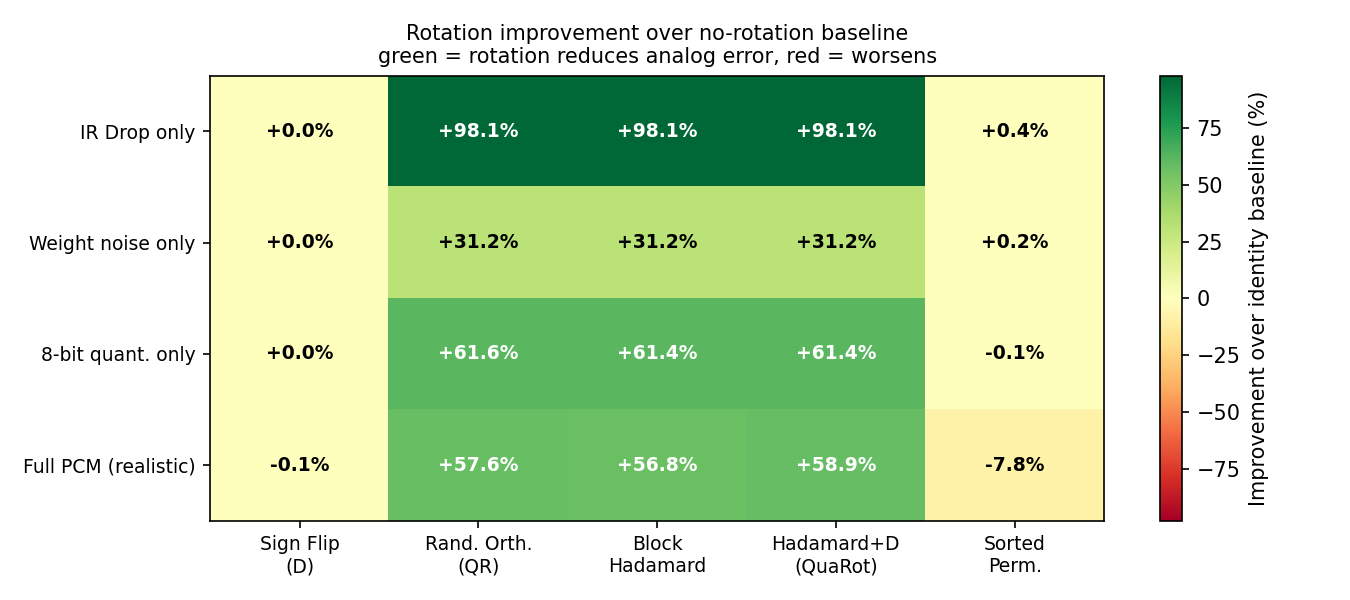
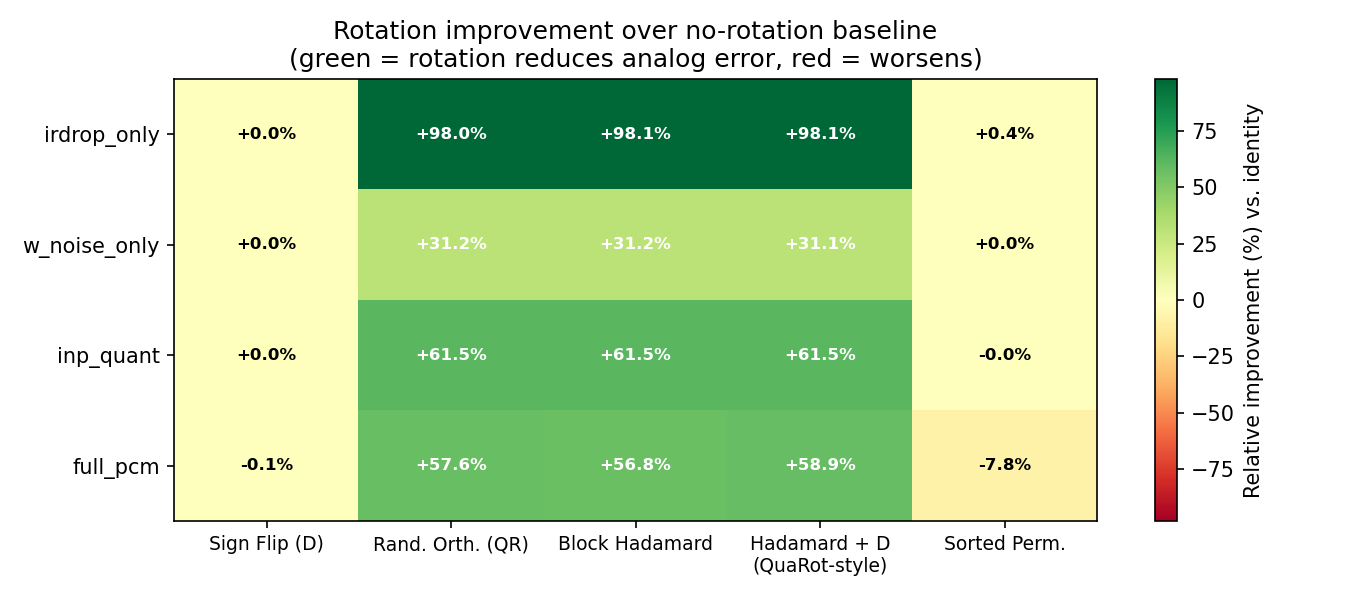
added wandb, updated readme, updated docker script

diff --git a/1layertests/explore_rotations.py b/1layertests/explore_rotations.py
@@ -44,6 +44,8 @@ Metrics (averaged over N_TRIALS noise realisations)
 """
 
 import os
+import sys
+import datetime
 import warnings
 import numpy as np
 import torch
@@ -52,6 +54,10 @@ matplotlib.use("Agg")
 import matplotlib.pyplot as plt
 from scipy.linalg import hadamard
 from transformers import GPT2Model, GPT2Tokenizer
+
+sys.path.insert(0, os.path.join(os.path.dirname(__file__), "..", "src"))
+import wandb
+from wandb_config import WANDB_ENTITY, WANDB_PROJECT, WANDB_MODE
 
 from aihwkit.nn import AnalogLinear
 from aihwkit.simulator.configs import InferenceRPUConfig, TorchInferenceRPUConfigIRDropT
@@ -395,6 +401,16 @@ def run_trials(W: torch.Tensor, b: torch.Tensor, x: torch.Tensor,
 # ---------------------------------------------------------------------------
 
 def main():
+    run_name = f"1layer_{datetime.datetime.now().strftime('%Y%m%d_%H%M%S')}"
+    wandb.login(key=os.getenv("WANDB_API_KEY"))
+    wandb.init(
+        project=WANDB_PROJECT,
+        entity=WANDB_ENTITY,
+        mode=WANDB_MODE,
+        name=run_name,
+        config={"n_trials": N_TRIALS, "in_dim": IN_DIM, "out_dim": OUT_DIM},
+    )
+
     W, b, x = load_gpt2_layer_and_inputs()
 
     # --- Build rotation matrices ---
@@ -481,6 +497,62 @@ def main():
                                 fname="results/output_distributions.png")
 
     print("\nPlots saved to ./results/")
+
+    # --- wandb: results table + native bar charts per metric ---
+    # One bar chart per metric (rel_error, snr_db, cos_sim) using wandb.plot.bar().
+    # Each bar is labelled "config / rotation" so all combos are visible in one chart.
+    cols = ["config", "rotation",
+            "rel_error_mean", "rel_error_std",
+            "snr_db_mean",    "snr_db_std",
+            "cos_sim_mean",   "cos_sim_std"]
+    table = wandb.Table(columns=cols)
+    for cfg_name, rot_dict in results.items():
+        for rot_name, metrics in rot_dict.items():
+            m_re, s_re = metrics["rel_error"]
+            m_sn, s_sn = metrics["snr_db"]
+            m_cs, s_cs = metrics["cos_sim"]
+            table.add_data(cfg_name, rot_name,
+                           m_re, s_re, m_sn, s_sn, m_cs, s_cs)
+    wandb.log({"results_table": table})
+
+    metric_chart_specs = [
+        ("rel_error_mean", "Relative L2 Error (mean)"),
+        ("snr_db_mean",    "Output SNR dB (mean)"),
+        ("cos_sim_mean",   "Cosine Similarity (mean)"),
+    ]
+    for col, title in metric_chart_specs:
+        bar_table = wandb.Table(columns=["config / rotation", col])
+        for cfg_name, rot_dict in results.items():
+            for rot_name, metrics in rot_dict.items():
+                raw_key = col.replace("_mean", "")
+                bar_table.add_data(f"{cfg_name} / {rot_name}", metrics[raw_key][0])
+        wandb.log({col: wandb.plot.bar(bar_table, "config / rotation", col, title=title)})
+
+    # --- wandb: log all saved PNGs ---
+    wandb.log({
+        "rel_error_chart":       wandb.Image("results/rel_error.png"),
+        "snr_db_chart":          wandb.Image("results/snr_db.png"),
+        "cos_sim_chart":         wandb.Image("results/cos_sim.png"),
+        "improvement_heatmap":   wandb.Image("results/improvement_heatmap.png"),
+        "output_distributions":  wandb.Image("results/output_distributions.png"),
+    })
+
+    # --- wandb: error distribution histograms (mirrors output_distributions.png) ---
+    x_cap   = x[:32]
+    y_ideal_flat = (x_cap @ W.T + b.unsqueeze(0)).detach().numpy().flatten()
+    hist_logs = {}
+    for cfg_name, cfg_fn in cfg_fns_only.items():
+        for rot_name, R in rotations.items():
+            x_rot = x_cap @ R.T
+            W_rot = W @ R.T
+            layer = make_analog_layer(W_rot, b, cfg_fn())
+            with torch.no_grad():
+                y_a = layer(x_rot).numpy().flatten()
+            err = y_a - y_ideal_flat
+            hist_logs[f"err_dist/{cfg_name}/{rot_name}"] = wandb.Histogram(err)
+    wandb.log(hist_logs)
+
+    wandb.finish()
 
 
 # ---------------------------------------------------------------------------

diff --git a/README.md b/README.md
@@ -82,3 +82,88 @@ Interactive experimentation
 Activation visualization (histograms, stats)
 Quick testing of rotations
 Purpose: exploration + generating plots for reports
+
+---
+
+# 1-Layer Rotation Experiments (`1layertests/`)
+
+Systematic evaluation of whether orthogonal input rotations reduce output error in a single analog linear layer extracted from GPT-2 small.
+
+**Key identity:** `y = Wx = (WR^T)(Rx)` for any orthogonal R. Exact in float; on analog hardware the rotation redistributes energy across crossbar rows/columns, potentially mitigating IR drop, weight noise, and ADC quantization error.
+
+## Layer under test
+
+GPT-2 small (124M), first transformer block, MLP feed-forward projection:
+- `c_fc`: `(batch, 768) → (batch, 3072)`, weight shape `(3072, 768)`
+- Weights and input activations extracted via forward hook (realistic statistics)
+
+## Rotations compared
+
+| Name | Description |
+|------|-------------|
+| `identity` | No rotation (baseline) |
+| `sign_flip` | Random diagonal ±1 matrix D |
+| `rand_orth` | Random orthogonal via QR decomposition |
+| `hadamard` | Block-diagonal Hadamard `blkdiag(H₂₅₆, H₂₅₆, H₂₅₆) / √256` |
+| `hadamard_D` | `H @ D` — QuaRot-style: incoherence + sign spreading |
+| `sorted_perm` | Permutation sorting inputs by mean \|activation\| (energy balancing) |
+
+All rotations verified orthogonal (`R R^T ≈ I`) before use.
+
+## Analog hardware configs
+
+| Config | Description |
+|--------|-------------|
+| `irdrop_only` | IR drop = 1.0, all other noise disabled |
+| `w_noise_only` | Additive weight noise σ=0.02, no IR drop |
+| `inp_quant` | 8-bit input + output quantization only |
+| `full_pcm` | PCM-like noise model + IR drop = 0.5 + 10-bit ADC/DAC (realistic) |
+
+## Metrics
+
+Each `(config, rotation)` combination is averaged over 20 independent noise trials:
+- `rel_error` — `‖y_analog − y_ideal‖_F / ‖y_ideal‖_F`
+- `snr_db` — `10 log₁₀(‖y_ideal‖² / ‖y_analog − y_ideal‖²)`
+- `cos_sim` — mean per-sample cosine similarity
+
+## Key results
+
+Relative L2 error (mean):
+
+| Config | identity | sign_flip | rand_orth | hadamard | hadamard_D | sorted_perm |
+|--------|----------|-----------|-----------|----------|------------|-------------|
+| IR drop only | 6.85% | 6.85% | **0.13%** | **0.13%** | **0.13%** | 6.82% |
+| Weight noise | 9.07% | 9.07% | **6.24%** | **6.24%** | **6.24%** | 9.05% |
+| 8-bit quant | 7.34% | 7.34% | **2.82%** | **2.83%** | **2.83%** | 7.35% |
+| Full PCM | 14.83% | 14.84% | 6.29% | 6.40% | **6.10%** | 15.99% |
+
+**Takeaways:**
+- `rand_orth`, `hadamard`, and `hadamard_D` all yield large error reductions (~50–98%) across every config
+- `sign_flip` and `sorted_perm` provide no meaningful benefit — they don't redistribute energy incoherently
+- `hadamard_D` (QuaRot-style) is the best single rotation under the realistic full PCM config (−58.8% vs identity)
+- Results are deterministic for `irdrop_only` / `inp_quant` (no stochastic noise), and low-variance for the others
+
+## Running the experiment
+
+```bash
+# Full experiment (loads GPT-2, runs 20 trials × 4 configs × 6 rotations)
+$ conda run -n aihwkit python -m 1layertests.explore_rotations
+```
+
+Or inside the Docker container (from `AnalogWeightRotations/`):
+
+```bash
+$ conda run -n aihwkit python 1layertests/explore_rotations.py
+```
+
+Results and plots are saved to `1layertests/results/` and logged to W&B under the configured project.
+
+## Regenerating plots without re-running
+
+`plot_results.py` hardcodes the completed run's output and regenerates all figures locally:
+
+```bash
+$ conda run -n aihwkit python 1layertests/plot_results.py
+```
+
+Produces: `results/rel_error.png`, `results/snr_db.png`, `results/improvement_heatmap.png`, `results/snr_panel.png`, `results/summary_table.png`
